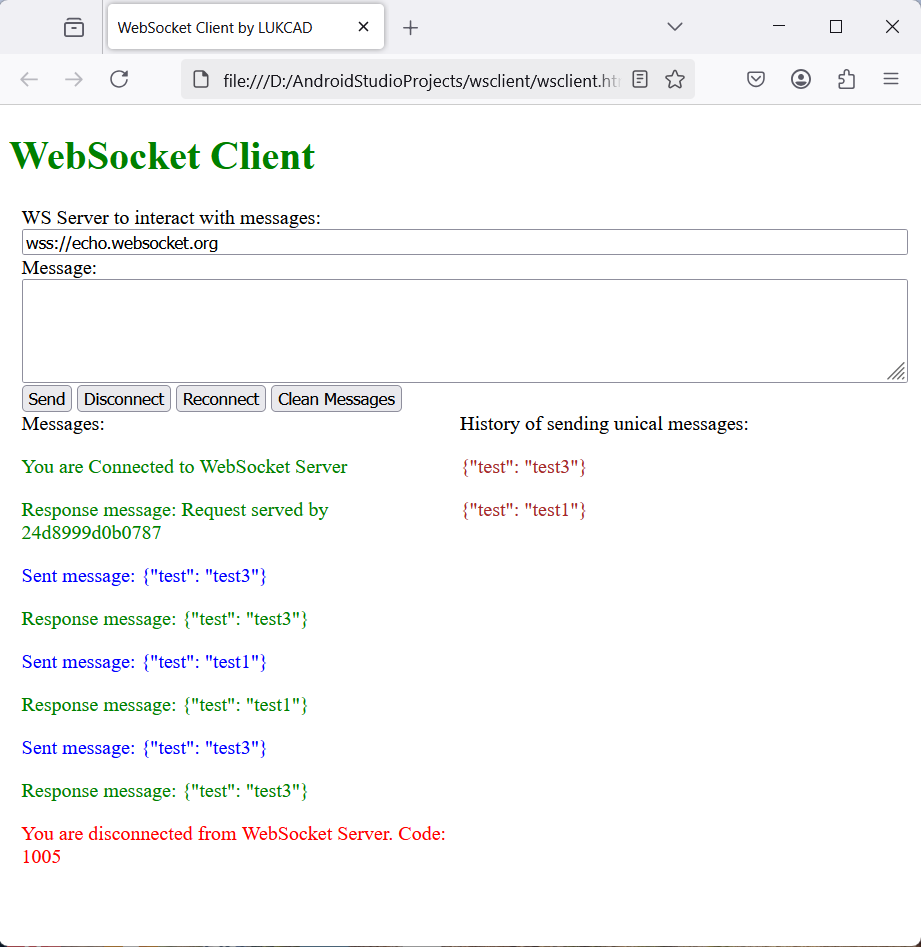
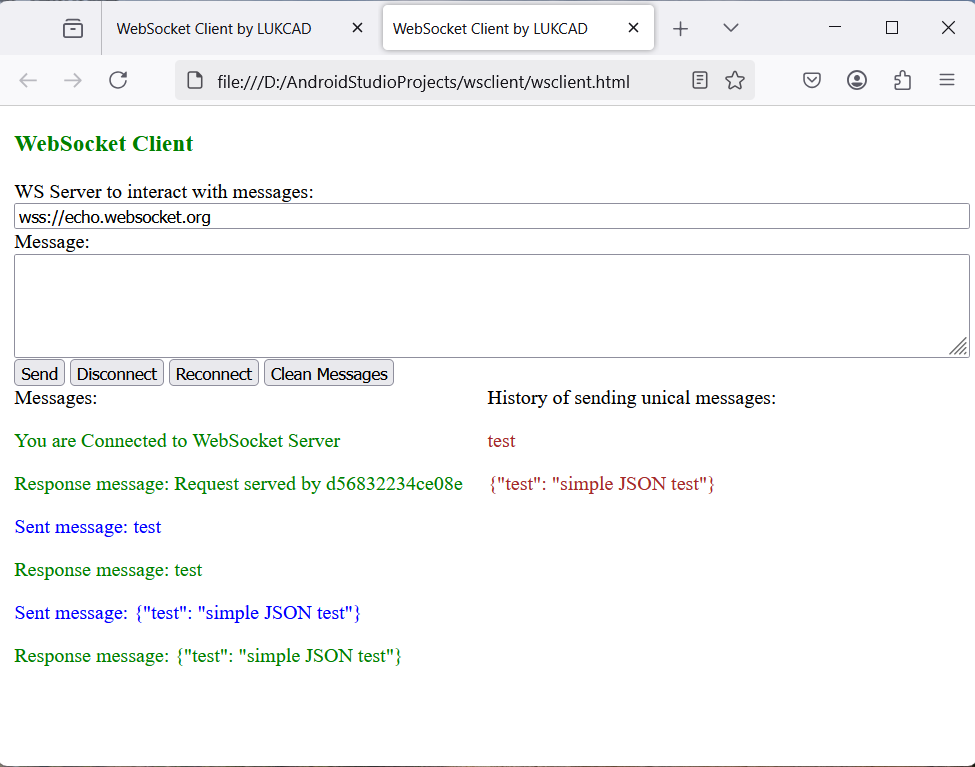
version 1.0.4

diff --git a/wsclient.html b/wsclient.html
@@ -6,12 +6,12 @@
     <meta name="viewport" content="width=device-width, initial-scale=1.0">
     <title>WebSocket Client by LUKCAD</title>
     <style>
-        h1 {
+        h3 {
             color: green;
         }
 
         .container {
-            margin: 10px;
+            margin: 5px;
         }
 
         div.topRow {
@@ -36,10 +36,11 @@
 </head>
 
 <body>
-    <h1>WebSocket Client</h1>
+    
     <div class="container">
-        <label>WS Server to interact with messages:</label></br><input type="text" id="nameServer" value="wss://echo.websocket.org" /> <br>
-        <label>Message:</label><br/><textarea rows = "5"  id="messageInput"></textarea></br>
+        <h3>WebSocket Client</h3>
+        <label>WS Server to interact with messages:</label></br><input type="text" id="nameServer" value="wss://echo.websocket.org" /> </br>
+        <label>Message:</label></br><textarea rows = "5"  id="messageInput"></textarea></br>
         <button onclick="sendMessage()">Send</button>
 		<button onclick="closeConnect()">Disconnect</button>
 		<button onclick="reConnect()">Reconnect</button>
@@ -65,6 +66,11 @@
 
         var json_str = getCookie('mycookie')? getCookie('mycookie') : '[]';
         var arr = JSON.parse(json_str);
+        if (json_str === '[]'){
+            json_str = localStorage.getItem("wsmshistory")? localStorage.getItem("wsmshistory") : '[]';
+            arr = JSON.parse(json_str);
+        }
+        
 
         
 
@@ -144,6 +150,7 @@
                 if (arr.indexOf(message) < 0) {
                     arr.push(message);
                     var json_str = JSON.stringify(arr);
+                    localStorage.setItem("wsmshistory", json_str);
                     createCookie('mycookie', json_str, 99);
                     writeToHistory(`${message}`, 'brown');
                 }

diff --git a/README.md b/README.md
@@ -14,17 +14,23 @@ where `socket` supports all actions:
 
 `Html page` has interactive boxes and buttons to support:
 
-- text box to point WS server ( by default it is: wss://echo.websocket.org );
+- text box to point WS server ( by default it is: `wss://echo.websocket.org` );
 - text box to enter message which you wish to send to WS server;
 - button `Send` - to send message from text box to WS and get response.
 - button `Disconnect` to stop connection to WS server.
 - button `Reconnect` to start connection to WS server again after stop.
 - button `Clean Messages` to remove messages from panel `Messages`.
 
-Panel `Histoy of sending unical messages` helps you keep history of messages to re-use those for re-sending. If you use `FireFox` this history is stored even with refreshing page of client.
+Panel `Histoy of sending unical messages` helps you keep history of messages to re-use those for re-sending when you re-open client or clean up messages. 
 
-Code is in project on GitHub:
+You can use this `wsclient.html` with `Firefox`, `Edge` or `Chrome` browsers or any others browsers that support `Local Storage` to let keep your history.
 
-You can simply clone project from GitHub and use file `wsclient.html` for your web socket servers.
+Latest version of html code of `wsclient.html` is always on GitHub in public access: [Latest version wsclient.html](https://github.com/lukcad/wsclient/blob/main/wsclient.html)
+
+You can simply clone project from GitHub and start use file `wsclient.html` for your web socket servers.
+
+```
+git clone https://github.com/lukcad/wsclient.git
+```
 
 ![alt text](image.png)
